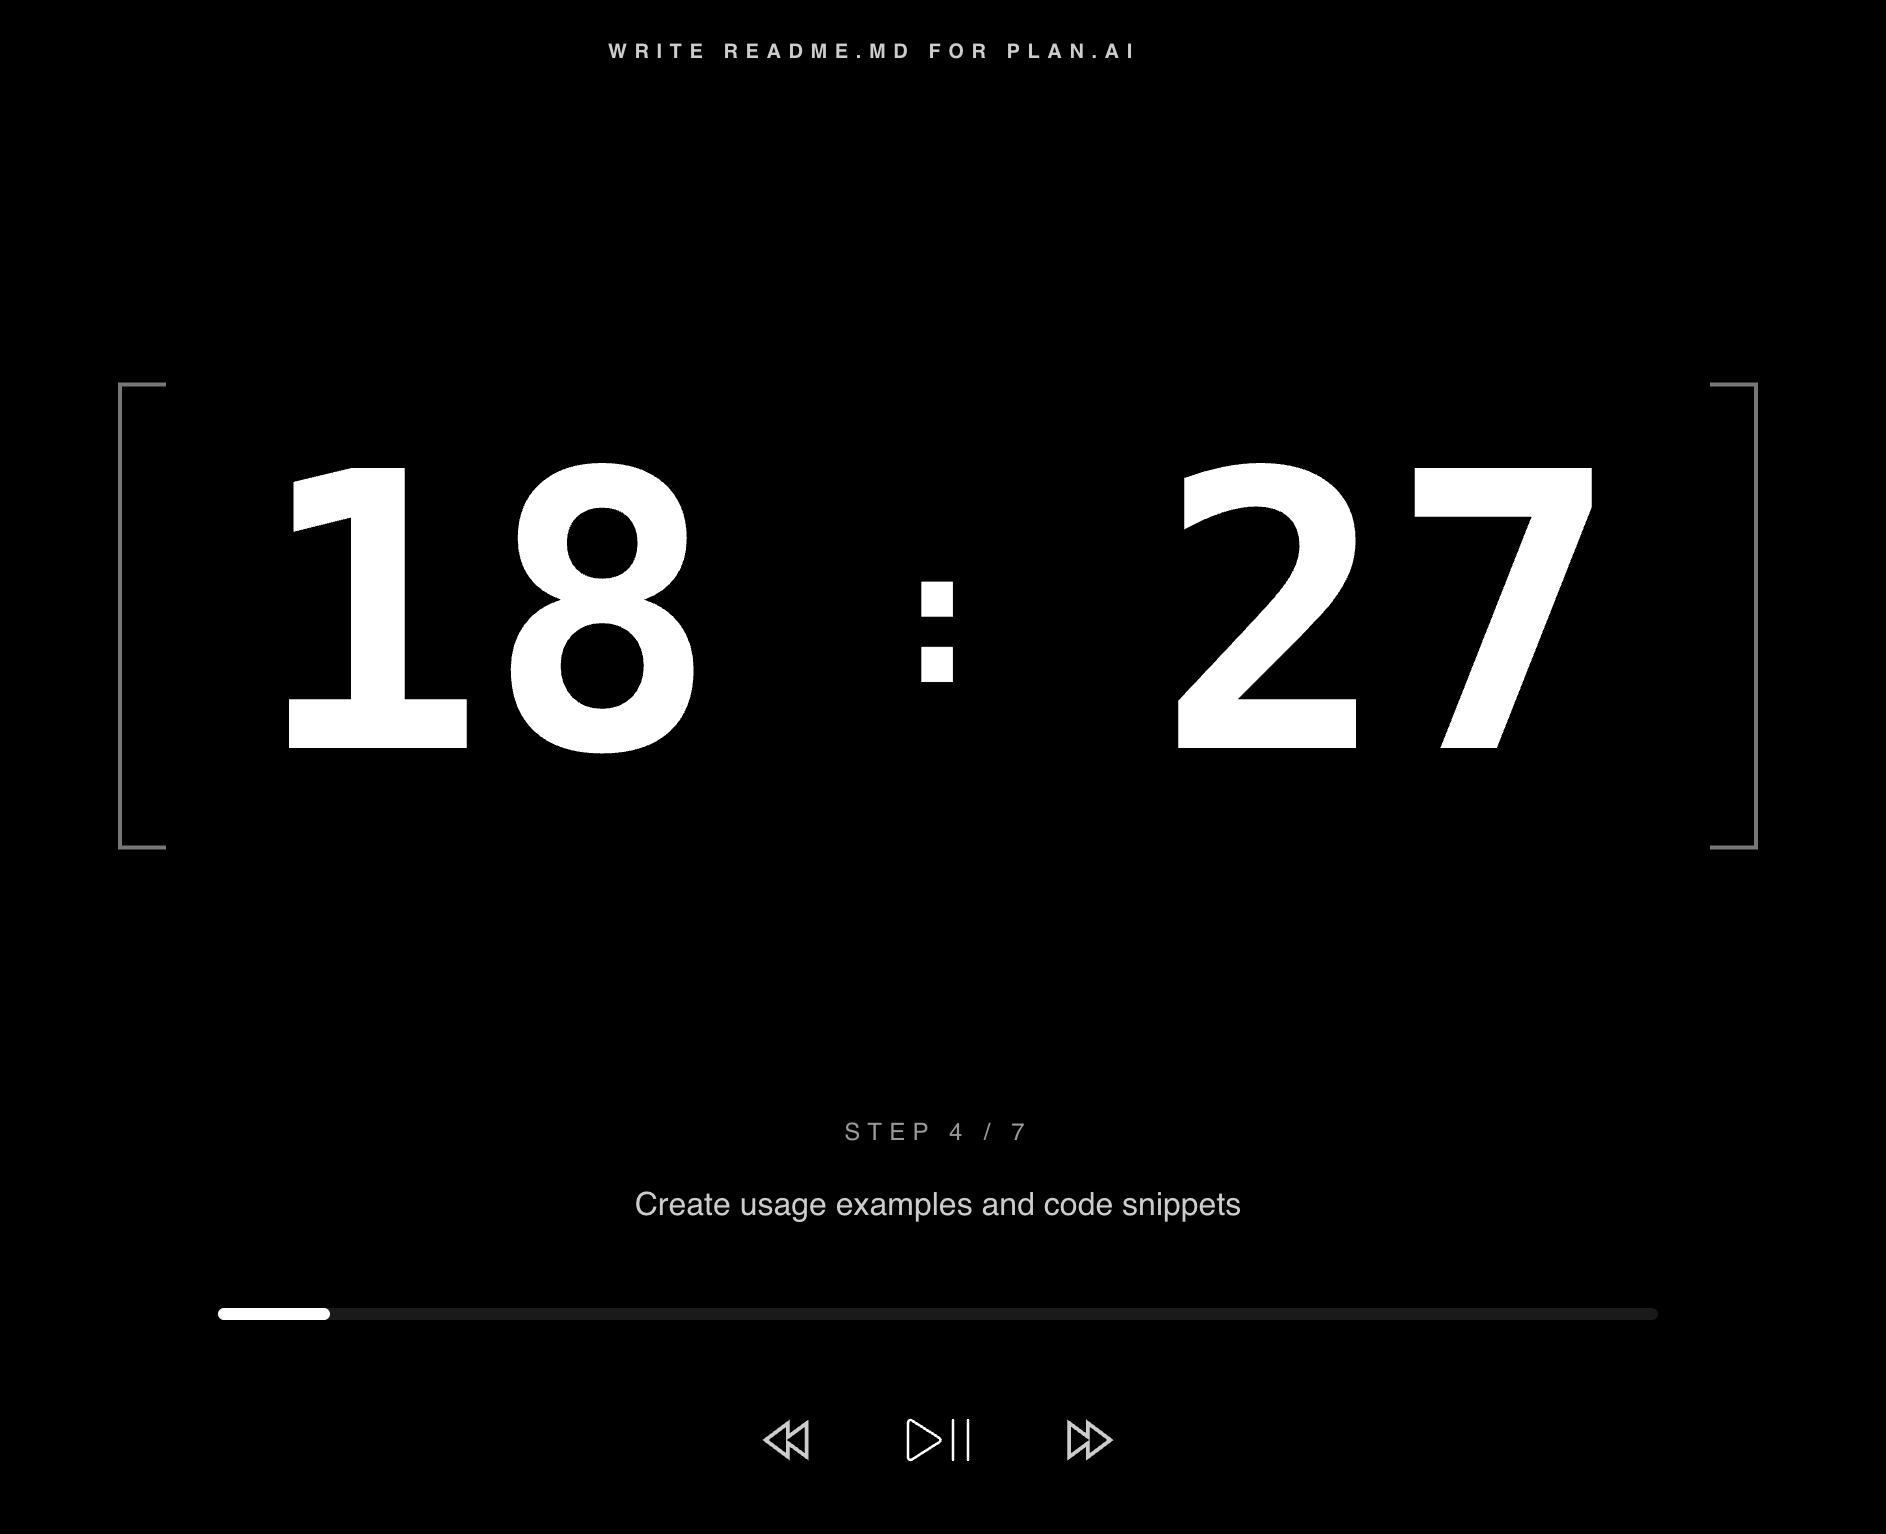
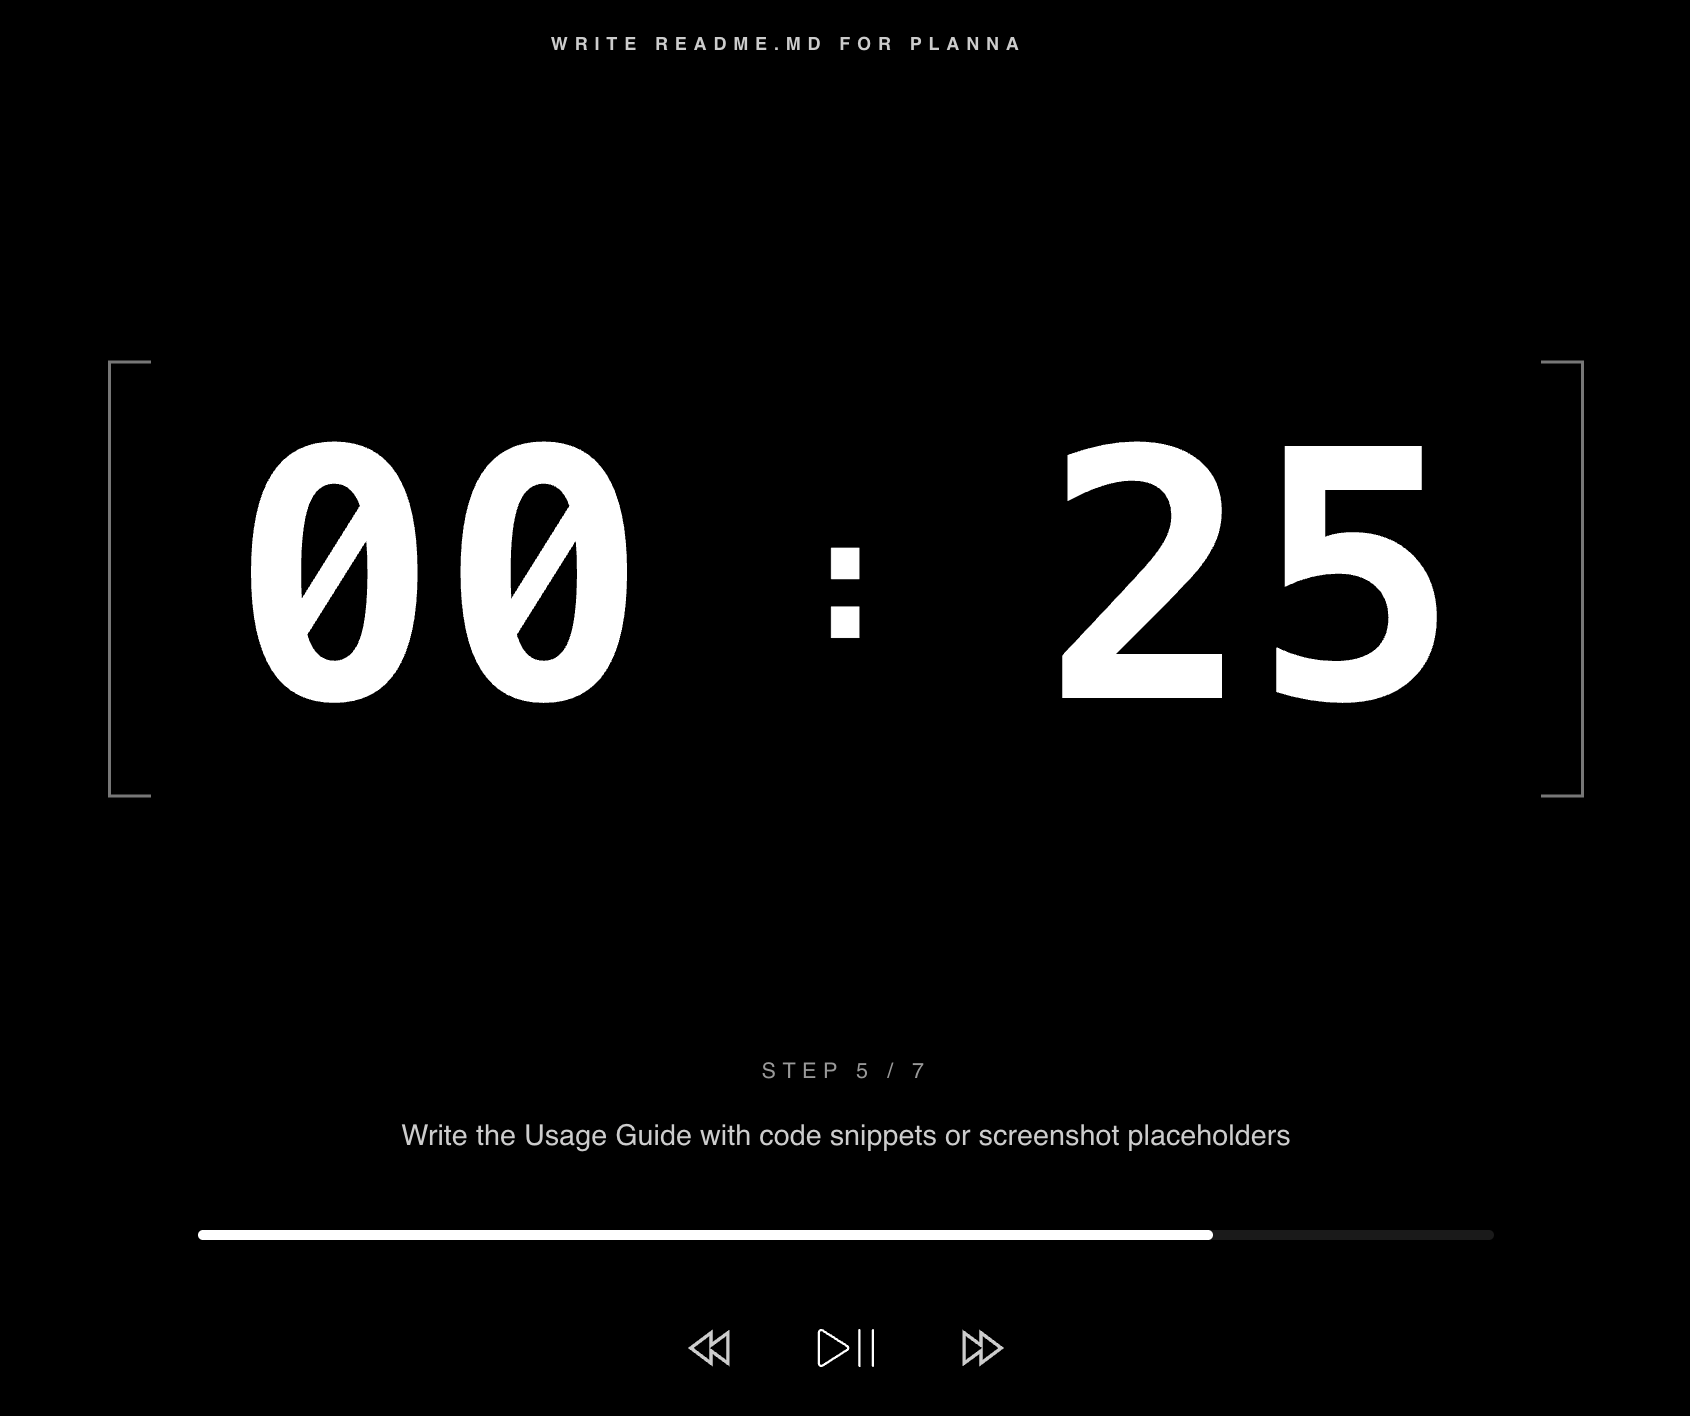
Update name

diff --git a/components/MicroPlanner.jsx b/components/MicroPlanner.jsx
@@ -521,7 +521,7 @@ useEffect(() => {
             {/* Header */}
             <div className="mt-12 mb-8 text-center space-y-2">
                 <h1 className="text-4xl font-light tracking-tight text-slate-900">
-                   plan.ai
+                   planna
                 </h1>
                 <p className="text-slate-700 text-base font-medium tracking-widest font-marker">task step generator and time estimator</p>
             </div>
@@ -720,7 +720,7 @@ useEffect(() => {
                                     <div className="mt-6 flex justify-end">
                                          <button 
                                             onClick={() => setProjects(projects.filter(p => p.id !== project.id))}
-                                            className="text-red-400 hover:text-red-600 text-xs flex items-center gap-1 px-3 py-2 hover:bg-red-50 rounded-lg transition-colors"
+                                            className="text-black hover:text-black/70 text-xs flex items-center gap-1 px-3 py-2 hover:bg-black/5 rounded-lg transition-colors border border-black/10"
                                         >
                                             <Trash2 size={14} /> Delete Task
                                         </button>

diff --git a/app/layout.tsx b/app/layout.tsx
@@ -8,7 +8,7 @@ const inter = Inter({
 });
 
 export const metadata = {
-  title: "MicroPlanner | plan.ai",
+  title: "planna | ai powered planner",
   description: "Task step generator and time estimator",
 };
 

diff --git a/README.md b/README.md
@@ -1,4 +1,4 @@
-# MicroPlanner | plan.ai
+# planna | AI-powered Planner 
 
 A focused micro-planning UI that breaks complex tasks into timed steps, helps you run them in “focus mode” and keeps lightweight progress locally in the browser.
 
@@ -76,7 +76,7 @@ npm run dev
 
 ## 📂 Key Files
 - `app/page.tsx` – renders the planner.
-- `app/layout.tsx` – global layout, base font, metadata (tab title “MicroPlanner | plan.ai”).
+- `app/layout.tsx` – global layout, base font, metadata (tab title “planna | ai powered planner”).
 - `app/loading.tsx` – page-level loader using the dot animation.
 - `app/api/plan/route.js` – Gemini step generation (server).
 - `components/microplanner.jsx` – main UI, timers, loader, sounds, persistence.
